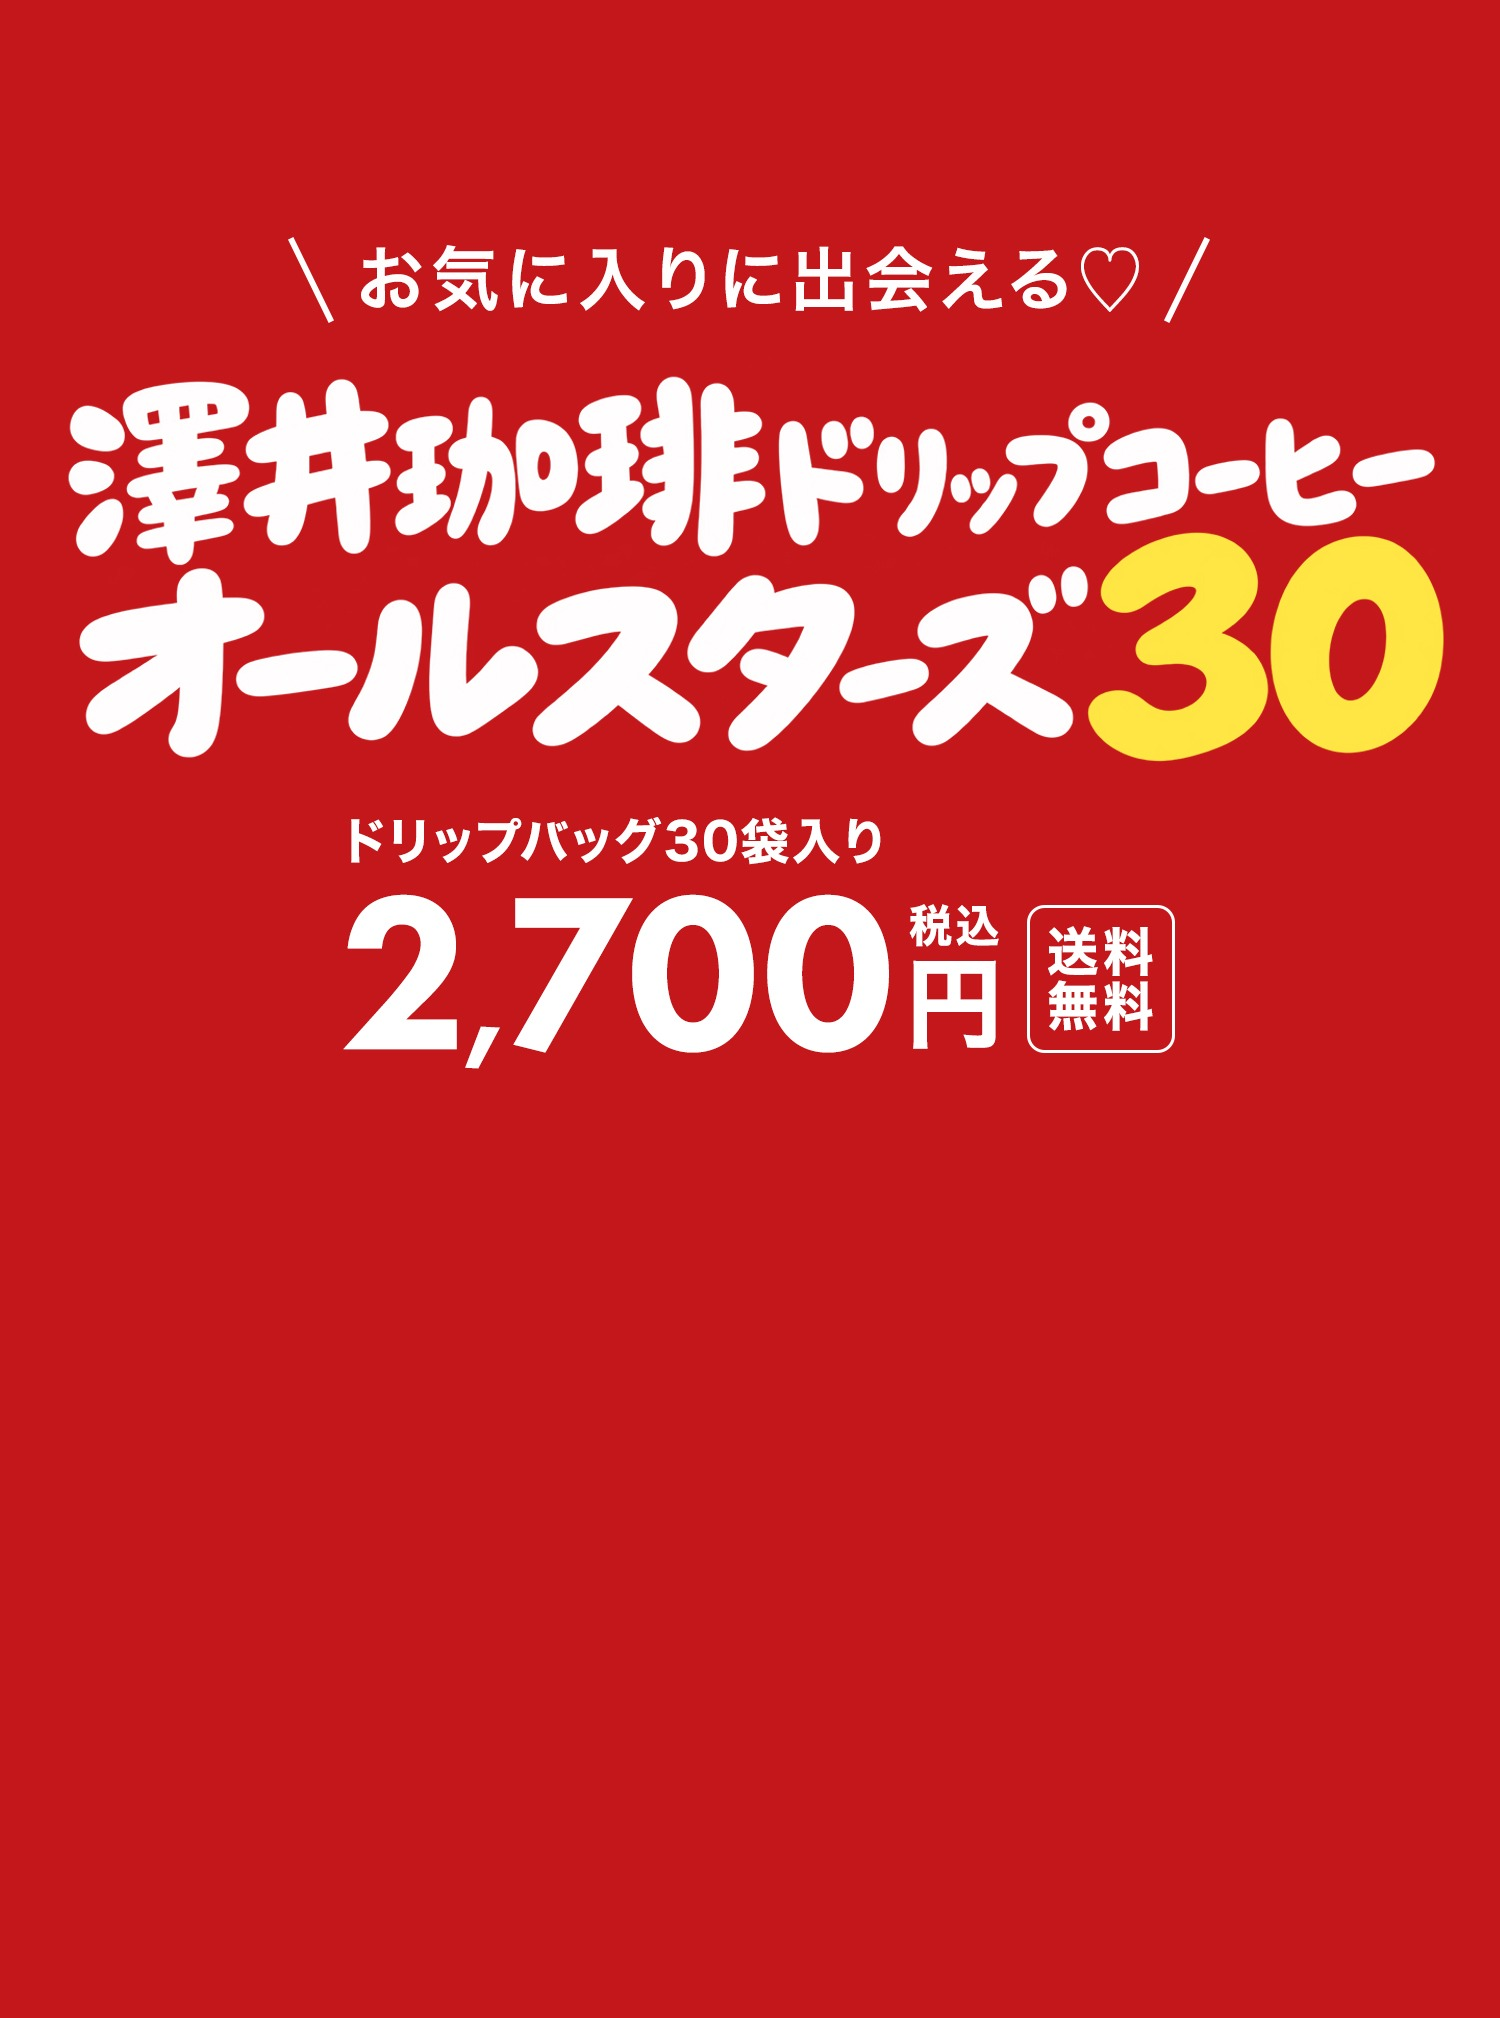
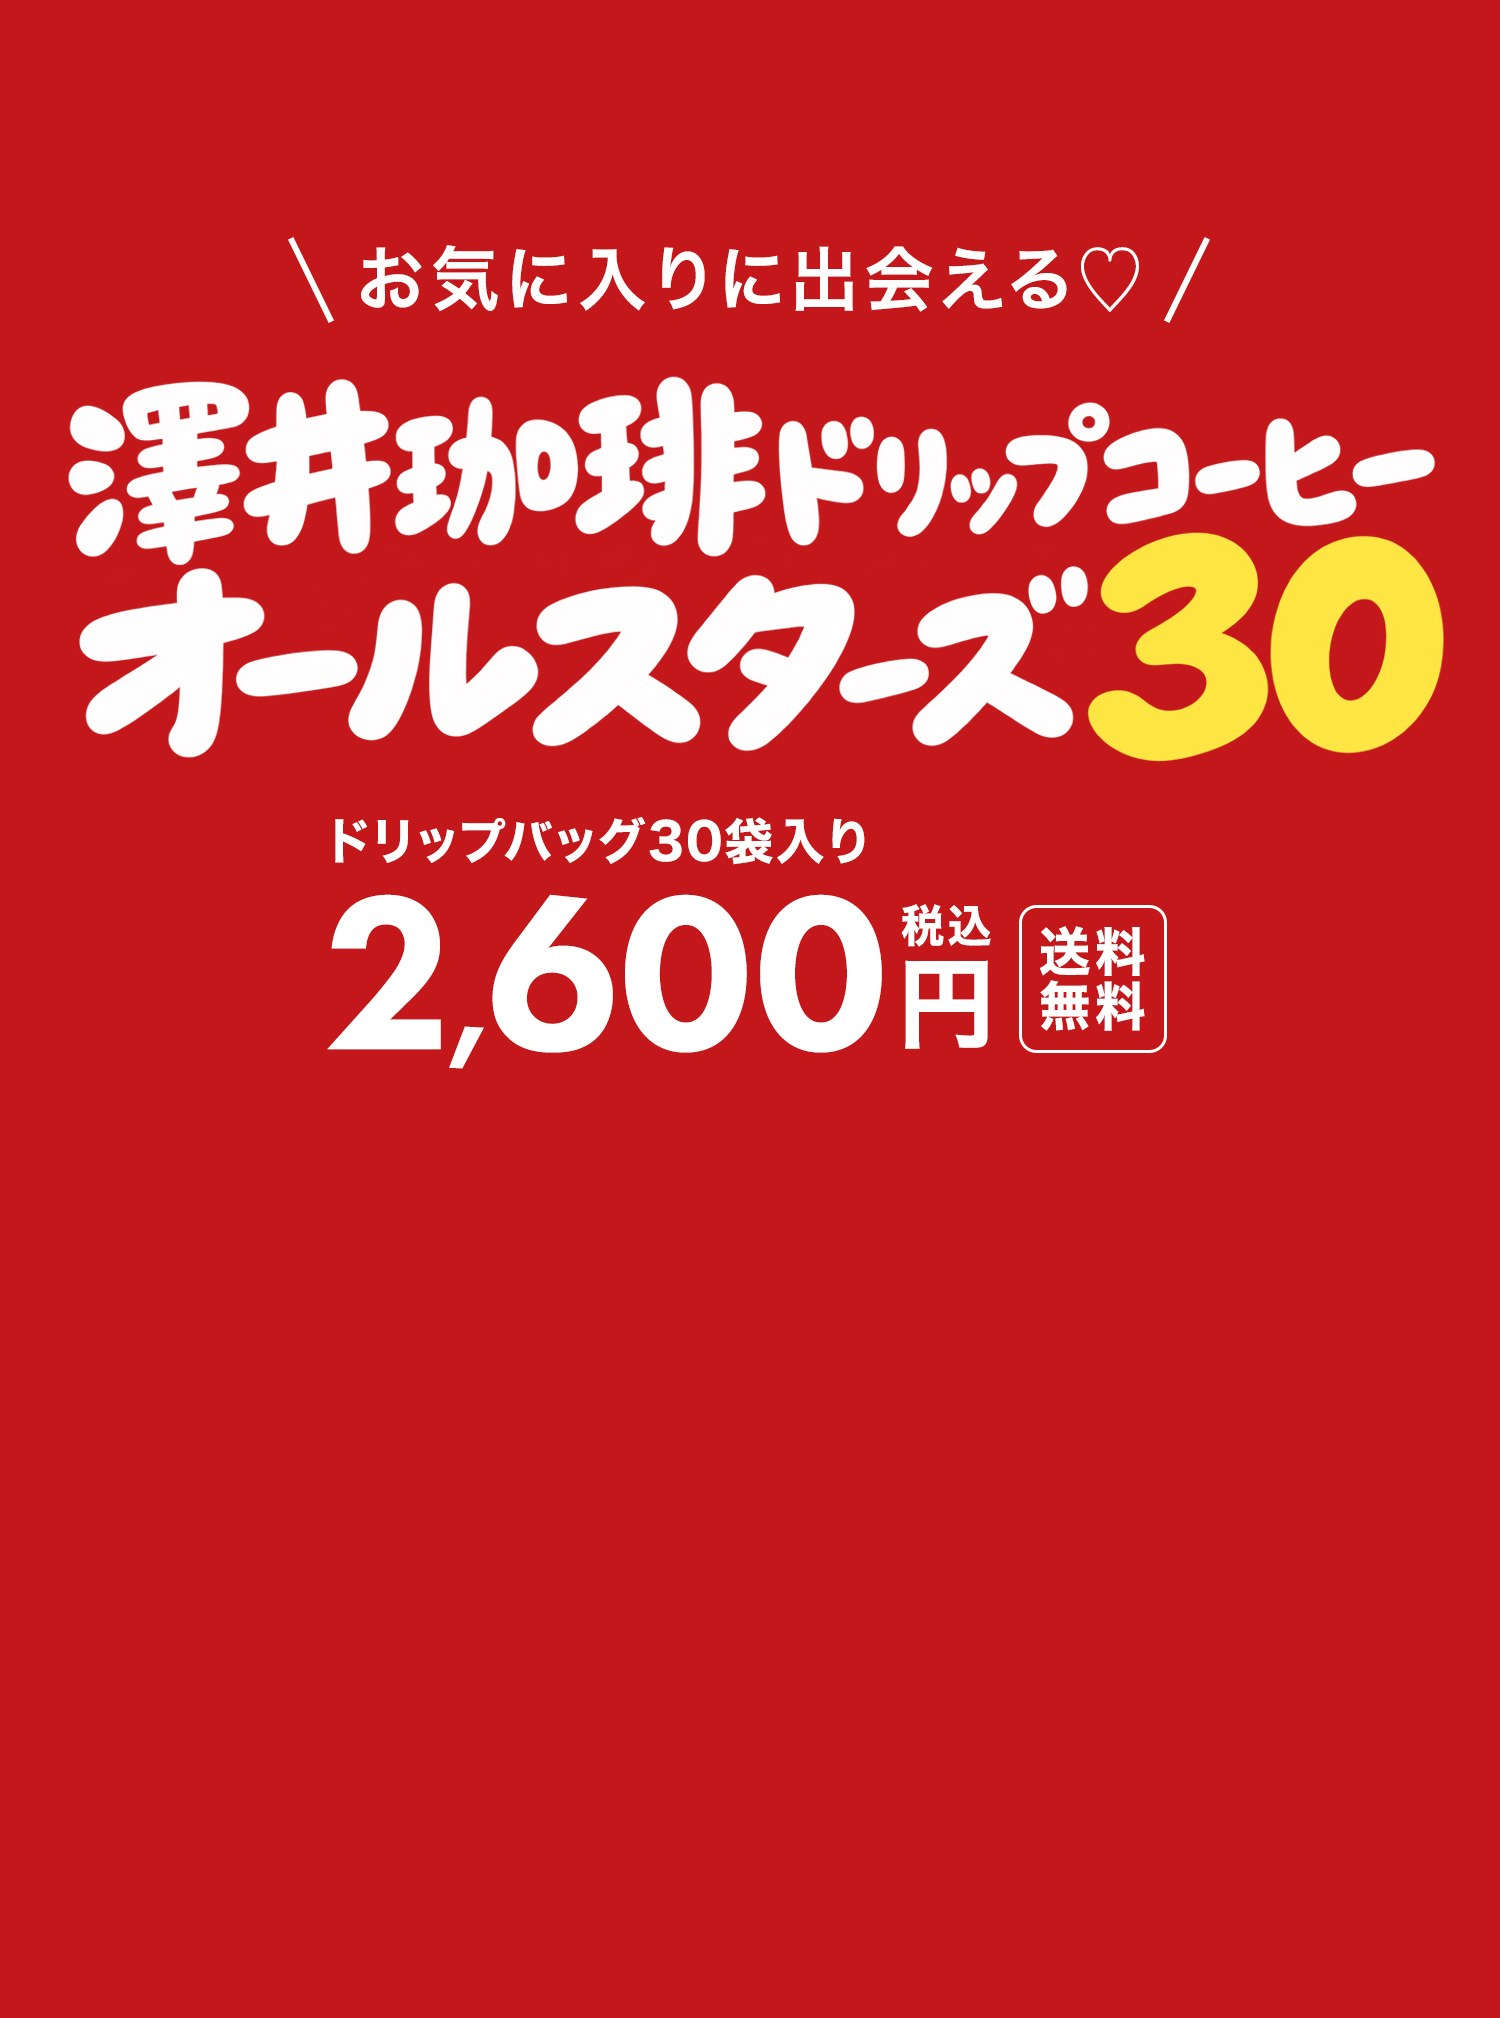
FV画像を2,600円版に差し替え

Changed region(s): [[0.2147, 0.4058, 0.7973, 0.5307]]

diff --git a/README.md b/README.md
@@ -3,7 +3,7 @@
 **予約販売終了後（2026/11/15 10:00以降）に差し替える通常販売版**です。予約版（sawai-coffee-30p-fukubukuro）から、予約に関する内容をすべて外しています。
 
 ## 予約版からの変更点
-- FV画像：`img/fv-pc_regular.jpg`（2500×1070）／`img/fv-sp_regular.jpg`（1500×2018）。デザイナー作成の「PC_澤井珈琲30種FV-2.jpg」「SP_澤井珈琲30種FV-2.jpg」（＼お気に入りに出会える♡／・ドリップバッグ30袋入り 2,700円 税込 送料無料）
+- FV画像：`img/fv-pc_regular.jpg`（2500×1070）／`img/fv-sp_regular.jpg`（1500×2018）。デザイナー作成の「pc_fv-2.jpg」「sp_fv-2.jpg」（＼お気に入りに出会える♡／・ドリップバッグ30袋入り 2,600円 税込 送料無料）
   - スマホ版は画像に入っていたカップを赤で塗りつぶし、カップは `img/fv-sp-cup.webp` を袋の上に重ねる（袋が完全にカップの下を流れる）
   - スマホ画像は予約版より45px短いので、袋の2列（`.fv-row` top 59.81%／78.15%・高さ16.9%）とカップ（top 68.93%）の位置も合わせて調整
 - ヘッダー：PC「ドリップバッグ30種類を飲み比べ『オールスターズ30』」／スマホ「30種類を飲み比べ『オールスターズ30』」
